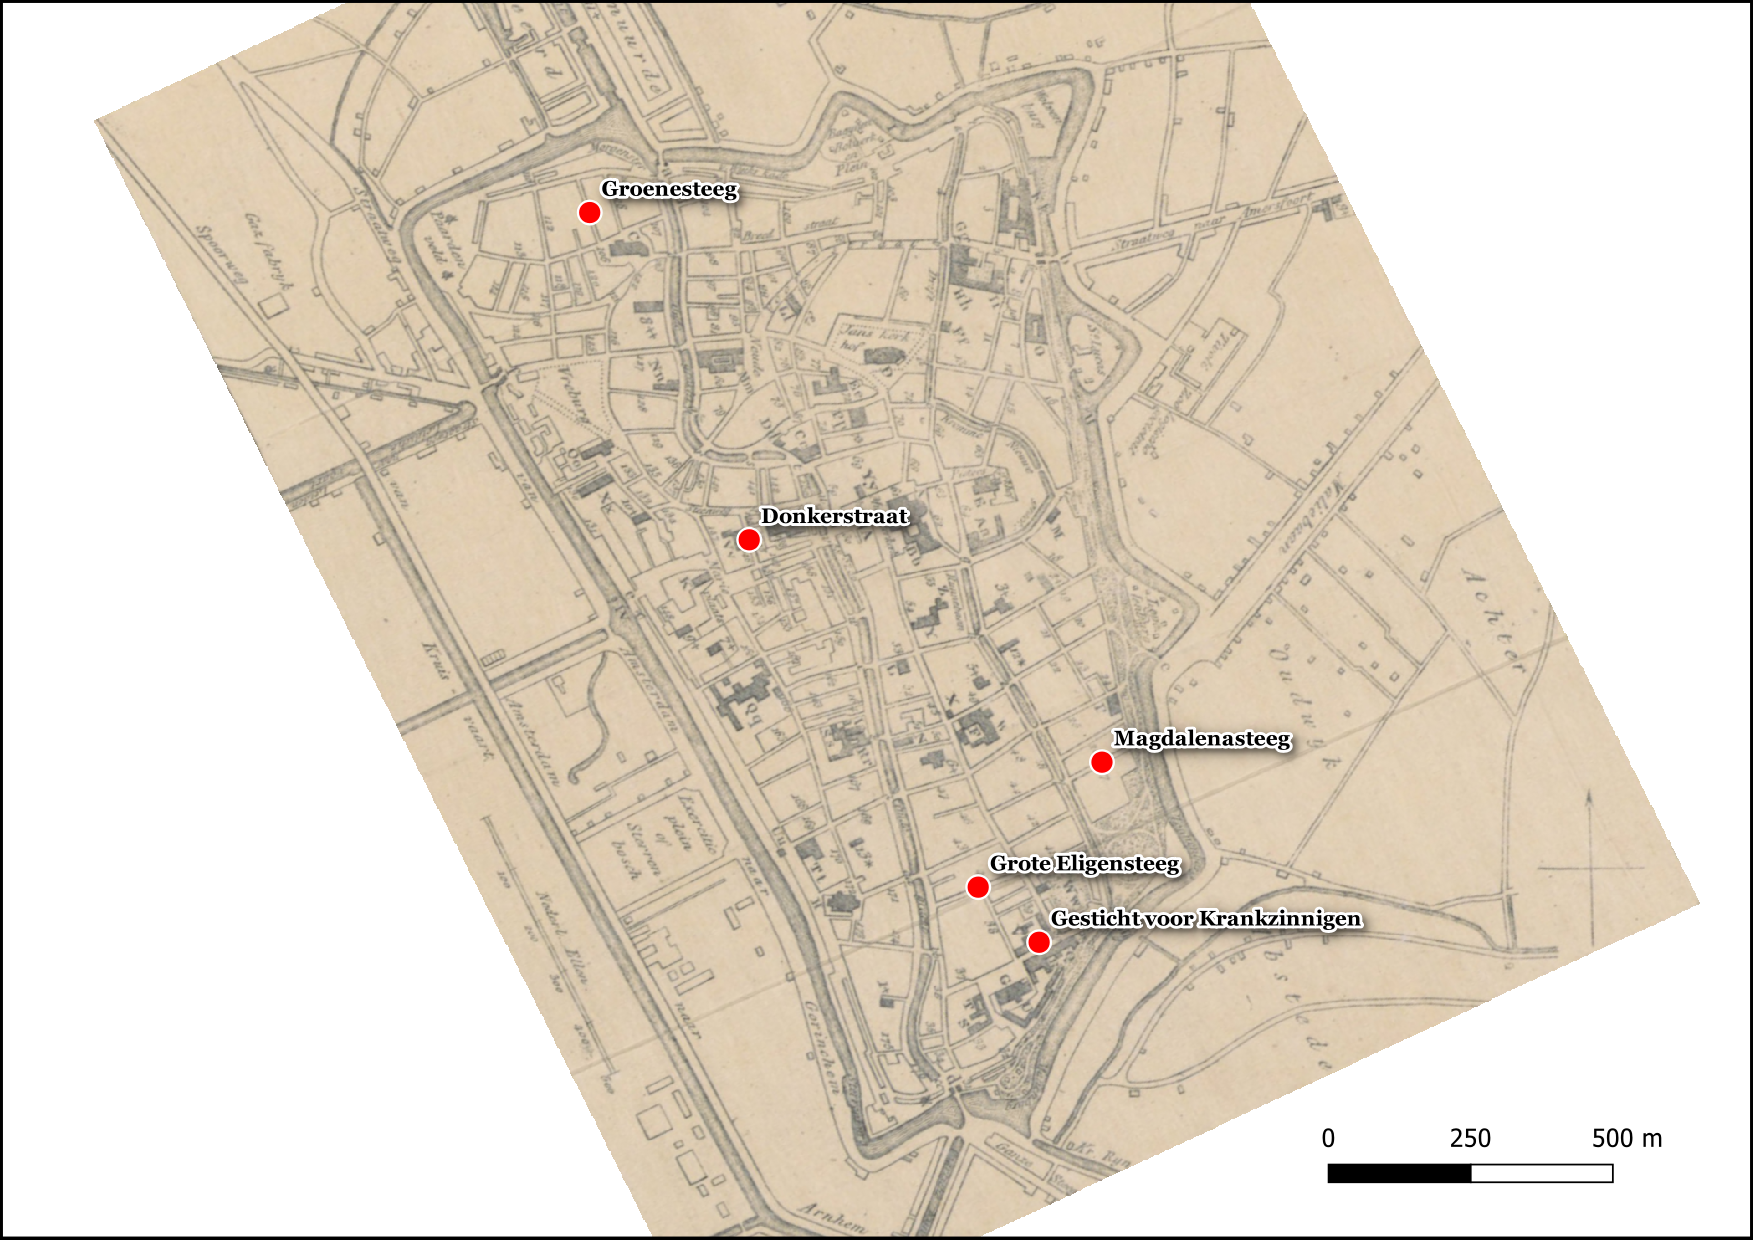
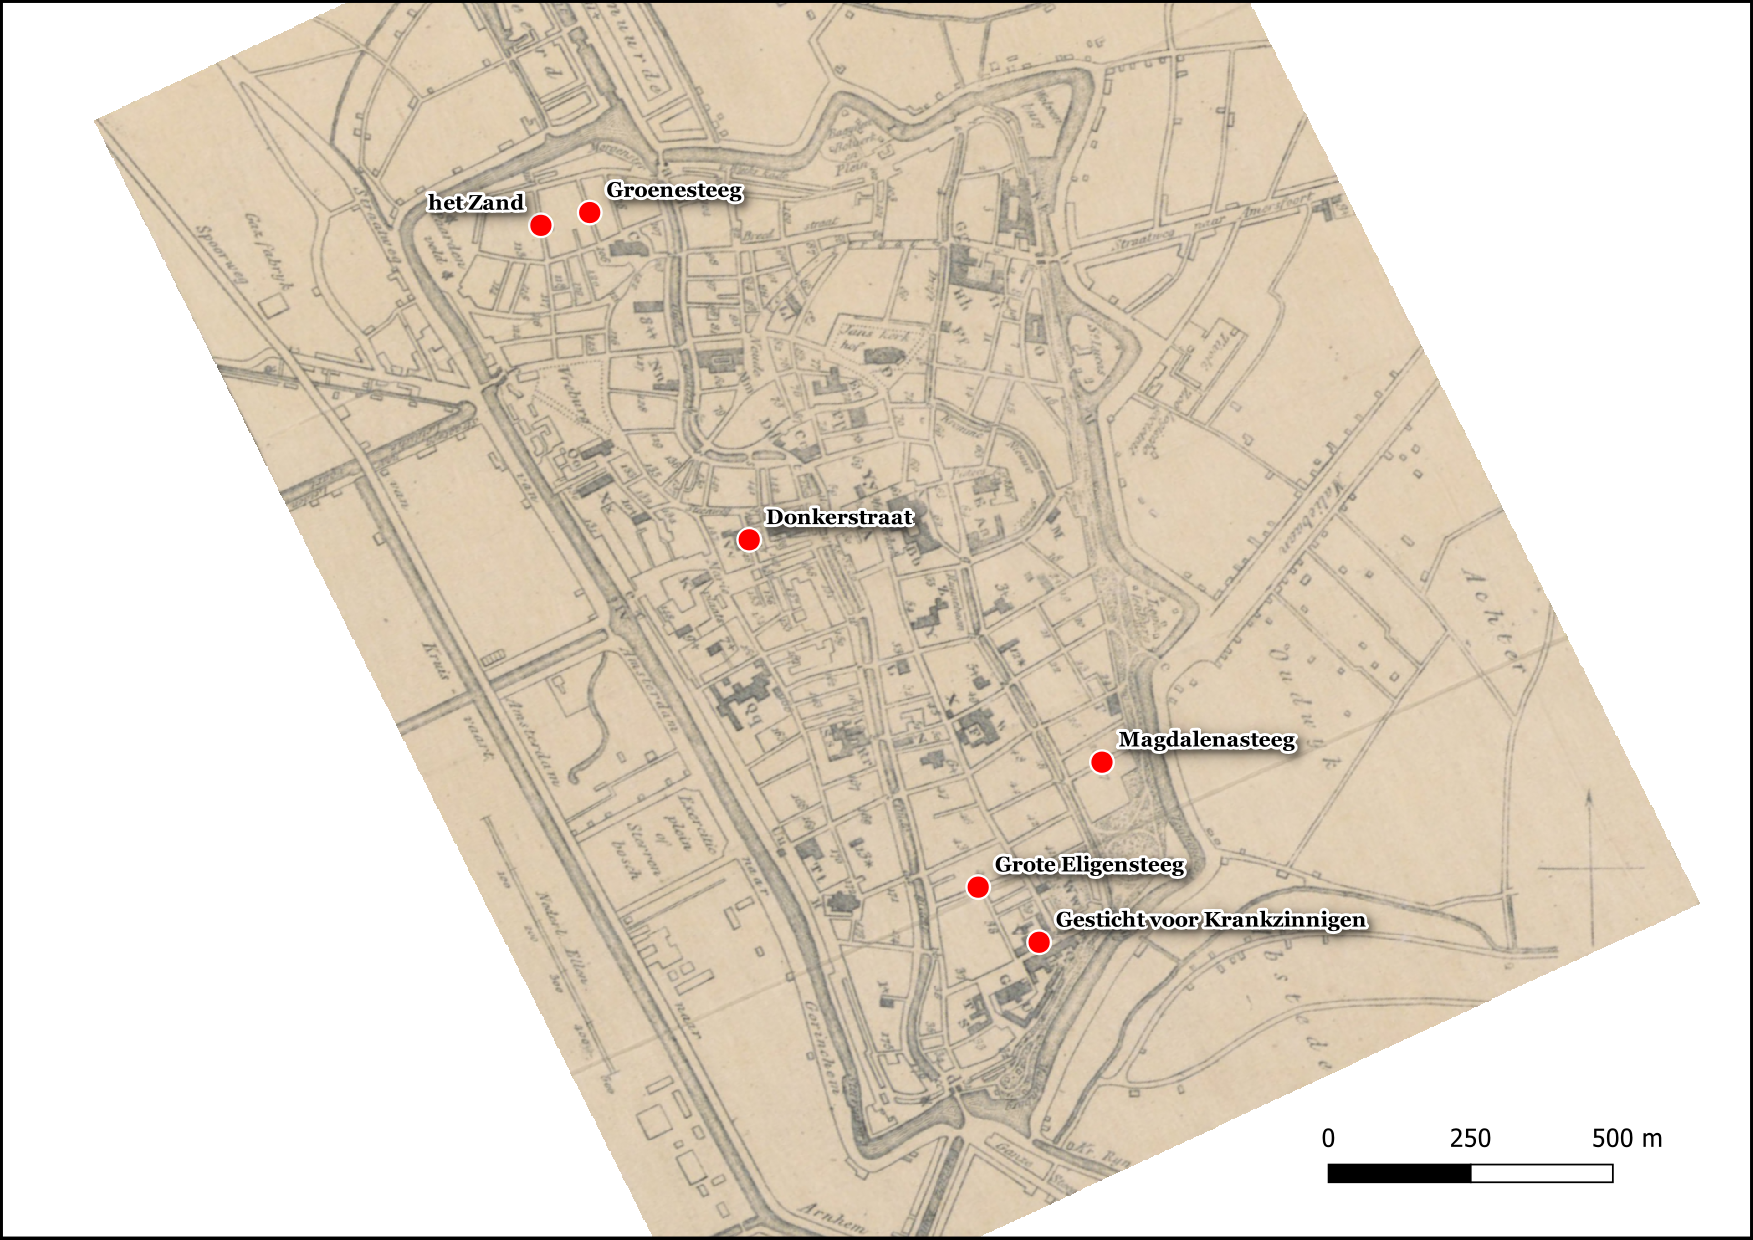
update

diff --git a/hazendonk/VI.1.1.1.4.1.6 Anna Wilhelmina van Hasendonk/Anna Wilhelmina van Hasendonk.html b/hazendonk/VI.1.1.1.4.1.6 Anna Wilhelmina van Hasendonk/Anna Wilhelmina van Hasendonk.html
@@ -44,9 +44,9 @@
 </div>
 <div class="col2">
 <h3>Biografie</h3>
-<p>Anna Wilhelmina van Hasendonk was het zesde van <a href="../V.1.1.1.4.1 Krijn Gerrit van Hasendonk/"><strong>Krijn Gerrit van Hasendonk</strong></a> en <strong>Anna Wilhelmina van Aken</strong> en werd op 27 november 1799 R.K. gedoopt in Wijk bij Duurstede.</p>
+<p>Anna Wilhelmina van Hasendonk was het zesde kind van <a href="../V.1.1.1.4.1 Krijn Gerrit van Hasendonk/"><strong>Krijn Gerrit van Hasendonk</strong></a> en <strong>Anna Wilhelmina van Aken</strong> en werd op 27 november 1799 R.K. gedoopt in Wijk bij Duurstede.</p>
 <p>Christina trouwde op 17 september 1828 in Utrecht met <strong>Gerardus Tollenaar</strong>, een zoon van <strong>Rijnier Tollenaar</strong> en <strong>Gerarda van Nes</strong>. Hij werd oud-katholiek gedoopt in Utrecht op <a href="https://hetutrechtsarchief.nl/collectie/08977DAB08347BDDE0534701000A4B62" target="_blank">19 oktober 1805</a>.</p>
-<p>Gerardus was kleermaker van beroep, Anna Wilhelmina koopvrouw. Het gezin woonde op verschillende adressen in Utrecht, aanvankelijk in de Magdalenasteeg en Grote Eligensteeg (huidige Eligenstraat), later in het Zand (Wijk C) in onder meer de Groenesteeg.</p>
+<p>Gerardus was kleermaker van beroep, Anna Wilhelmina koopvrouw. Het gezin woonde op verschillende adressen in Utrecht, aanvankelijk in de Magdalenasteeg en Grote Eligensteeg (huidige Eligenstraat), later in het Zand (huidige Koningstraat) en de Groenesteeg (Wijk C).</p>
 <p>Het echtpaar kreeg 8 kinderen:
 <ul>
 <li><strong>Gerardus</strong> &#9794 geb. op <a href="https://hetutrechtsarchief.nl/collectie/C2CB453B89D44441B2517CECA60E741C" target="_blank">23 juni 1829</a>, ovl. op <a href="https://hetutrechtsarchief.nl/collectie/0DEFD9296F634BBB8569A4955EFC419B" target="_blank">7 januari 1836</a> te Utrecht</li>
@@ -82,7 +82,7 @@
 <h3>Locaties</h3>
 <p><img src="./locaties Anna Wilhelmina van Hasendonk.png" style="width:100%;height:100%;" alt="locaties Anna Wilhelmina van Hasendonk"></p>
 <p><em><span style="font-size:10px">Kaart gemaakt in QGIS3.16 met gebruikmaking van de volgende bronnen:</span></p>
-<ul><li><span style="font-size:10px">N. van de Monde (1844) "Geschied- en oudheidkundige beschrijving van de pleinen, straten, stegen, waterleidingen, wedden, putten en pompen der stad Utrecht, etc." <a href="https://britishlibrary.georeferencer.com/maps/e9f056ae-3965-5cbd-8d09-5db9d9e7fc27/?_gl=1*l8am7x*_ga*MTYyNjgxMTYwNS4xNjUyNTU0MTAz*_ga_W4NH1B56KN*MTY1MjU1NDEwMy4xLjEuMTY1MjU1NDEzNi4w" target="_blank">via David Rumsey Map Collection</a></span></li></em>
+<ul><li><span style="font-size:10px">N. van de Monde (1844) "Geschied- en oudheidkundige beschrijving van de pleinen, straten, stegen, waterleidingen, wedden, putten en pompen der stad Utrecht, etc." via<a href="https://britishlibrary.georeferencer.com/maps/e9f056ae-3965-5cbd-8d09-5db9d9e7fc27/?_gl=1*l8am7x*_ga*MTYyNjgxMTYwNS4xNjUyNTU0MTAz*_ga_W4NH1B56KN*MTY1MjU1NDEwMy4xLjEuMTY1MjU1NDEzNi4w" target="_blank"> British Library</a></span></li></em>
 </ul>
 </div>
 <div class="col3">
